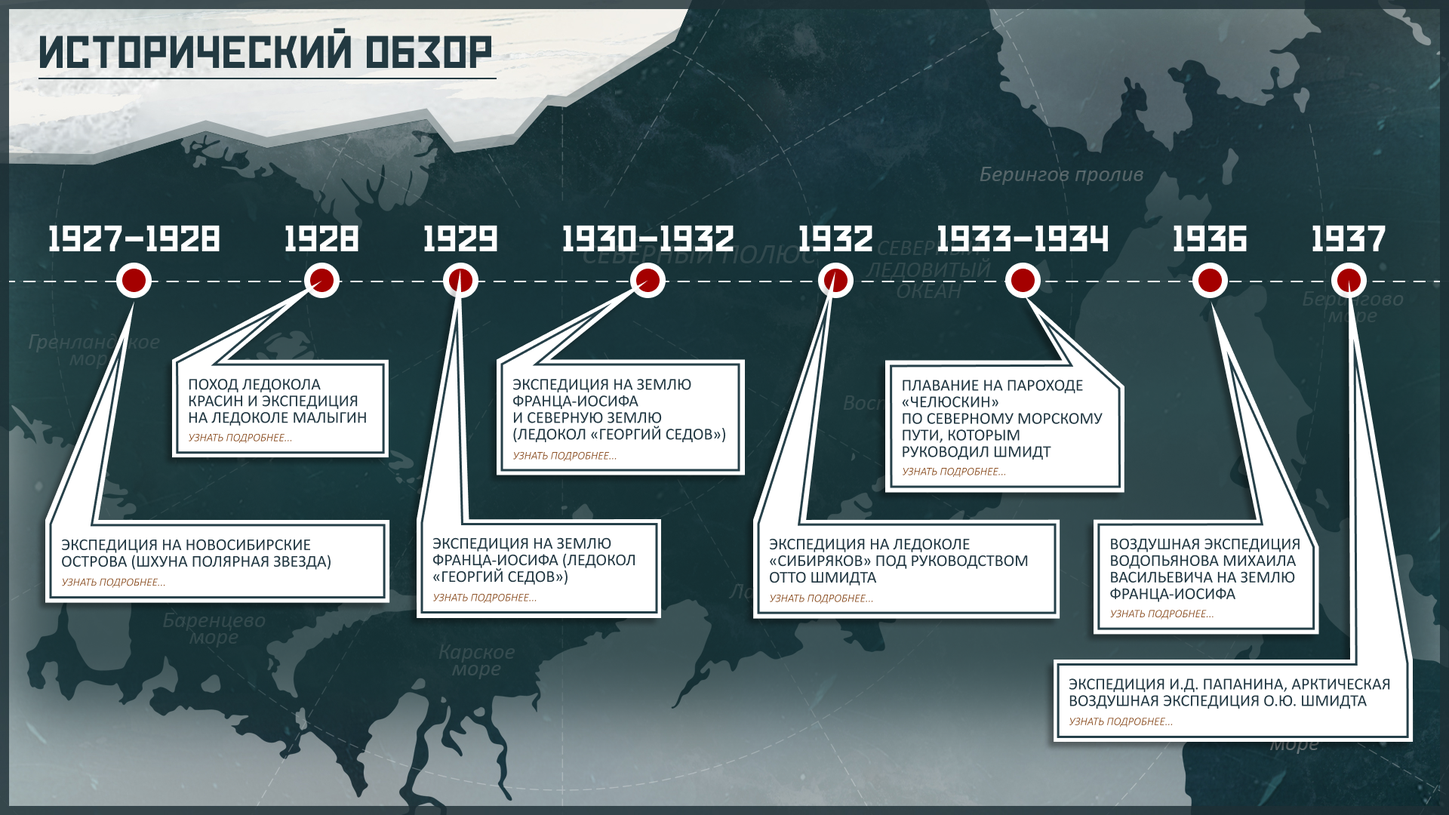
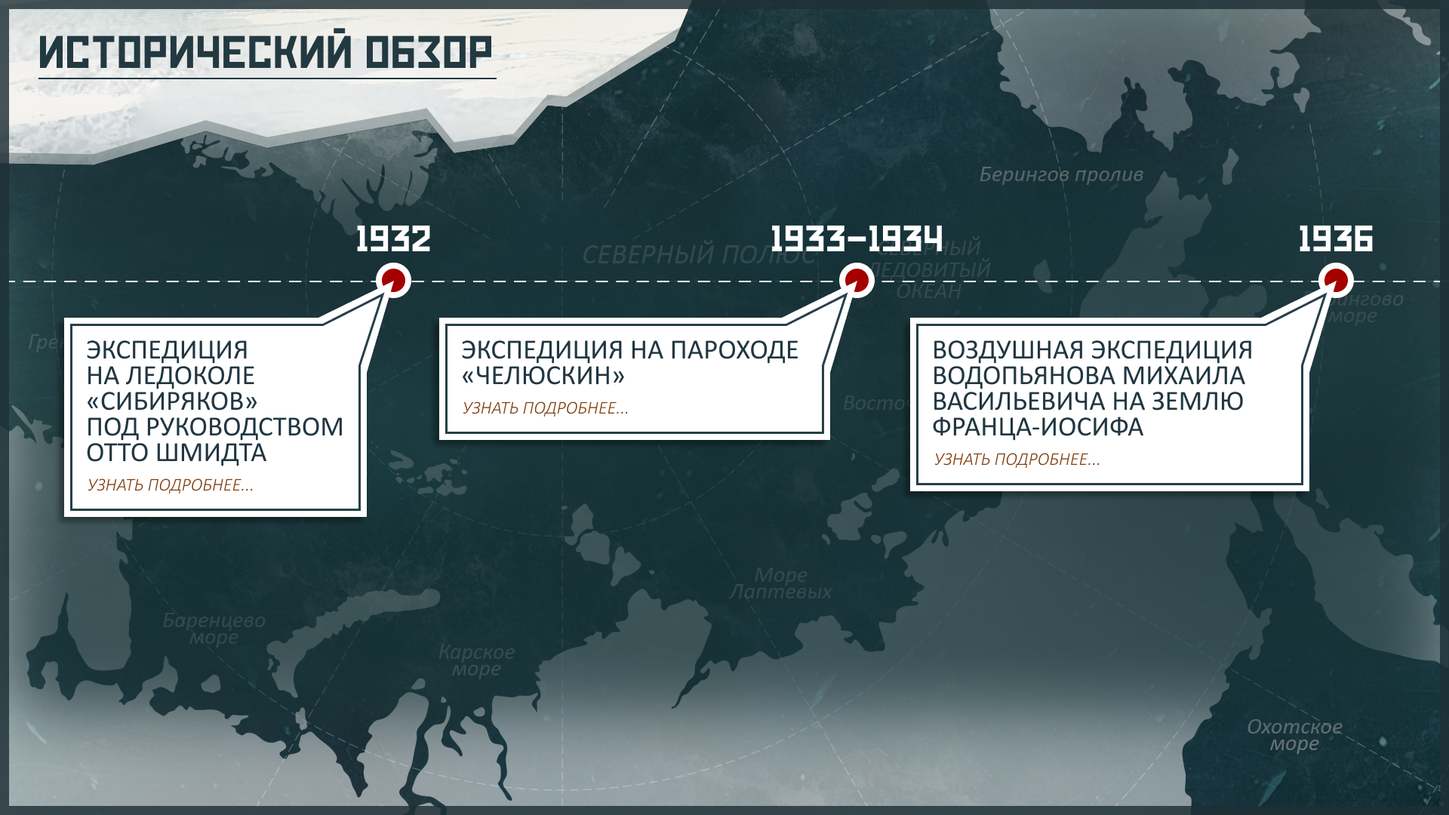
fix

Changed region(s): [[0.0312, 0.275, 1.0, 0.9167]]

diff --git a/src/data/ru.js b/src/data/ru.js
@@ -1,88 +1,88 @@
 export const ru = {
   operations: [
-    {
-      id: 'novosibirsk',
-      title: (
-        <>
-          экспедиция на новособирские <br />
-          острова (шхуна полярная звезда)
-        </>
-      ),
-      text: 'Зимой 1927–1928 годов учёные   совершили   ряд   санных   походов   на Новосибирские   острова   по   маршруту   Усть-Янск — Чай   Поварня — остров Котельный.   Производились   географические   исследования,   а   в   проливах Дмитрия Лаптева и Санникова удалось выполнить гидрологические разрезы. Шхуна «Полярная звезда» (капитан Ю. Д. Чирихин) должна была выполнять функции   судна   снабжения.   20 июля   1928 года   экипаж   отплыл   на   остров Большой Ляховский с баржей «Тюменка» на буксире.   Некоторые события экспедиции:  1 августа, находясь в Тикси, экипаж попал в сплошные ледяные поля.   До   23 августа   шхуна   маневрировала   в   ледовых   проходах,   крайне медленно продвигаясь к месту назначения.   Стоянка на  острове  Большой Ляховский продолжалась  с  26 августа по 1 сентября.    После выгрузки группы Пинегина шхуна поспешила уйти.  По поручению Академии наук РСФСР в   1928 году   Пинегин   руководил постройкой   геофизической   станции   на   мысе   Шалаурова   на   о. Большой Ляховской.   Участники   экспедиции   и   грузы   были   доставлены   на   остров «Полярной звездой».',
-      images: [{ src: '../images/shhuna-photo1.jpg', title: 'Николай Пинегин' }],
-      videos: [{ src: '/videos/novosibirsk-video1.mp4', title: 'Новосибирские острова-загадки' }],
-      audios: []
-    },
-    {
-      id: 'krasin',
-      title: (
-        <>
-          поход ледокола <br />
-          Красин и экспедиция <br />
-          на ледоколе Малыгин
-        </>
-      ),
-      text: ' В 1928 году ледоколы «Красин» и «Малыгин» участвовали в международной спасательной операции по спасению экспедиции Умберто Нобиле.   Экспедиция на дирижабле «Италия» стартовала из Милана 15 апреля 1928 года. 25   мая   дирижабль,   пролетев   над   полюсом,   потерпел   катастрофу   во   льдах Северного  Ледовитого  океана.  После  крушения  командир  и  ещё  восемь  членов экипажа остались живы.   Советский Союз предоставил для спасательной экспедиции два ледокола.  «Малыгин»  вышел  12  июня  из  Архангельска,  но  20  июня  был зажат  льдами в Баренцевом море и не смог помочь итальянцам. «Красин» вышел из Ленинграда 16 июня.  Некоторые события похода:  10 июля экипаж советского самолёта, доставленного «Красиным», во время разведки обнаружил лагерь и сбросил итальянцам еду и одежду.    11   июля   лётчик   Чухновский   нашёл   группу,   ушедшую   пешком.   Но   на обратном пути он не нашёл в тумане ледокол и сломал шасси.    12 июля «Красин» добрался до «красной палатки» и принял на борт пять последних членов экспедиции Нобиле.  16 июля «Красин» подобрал со льдины экипаж Бориса Чухновского, после чего корабль лёг на курс к берегам Норвегии.  Спасённые  итальянцы пересели  на  пароход  «Читта  ди  Милано»,   который доставил их в норвежский Нарвик, откуда они вернулись в Рим.   За этот героический поход ледокол «Красин» был   награждён   орденом «Трудового Красного Знамени».',
-      images: [
-        { src: '../images/krasin-photo1.jpg', title: 'Дирижабль Италия' },
-        { src: '../images/krasin-photo2.jpg', title: 'Дирижабль Италия' },
-        { src: '../images/krasin-photo3.jpg', title: 'Красинцы и спасенные ими члены экипажа Италии' },
-        { src: '../images/krasin-photo4.jpg', title: 'Красная палатка' },
-        { src: '../images/krasin-photo5.jpg', title: 'Ледокол Красин' },
-        { src: '../images/krasin-photo6.jpg', title: 'Ледокольный пароход Малыгин' },
-        { src: '../images/krasin-photo6.jpg', title: 'Моряки Красина подготавливают самолёт к погрузке на ледокол' },
-        { src: '../images/krasin-photo6.jpg', title: 'Постер к фильму Красная палатка' },
-        { src: '../images/krasin-photo6.jpg', title: 'Умберто Нобиле' }
-      ],
-      videos: [{ src: '/videos/krasin-video1.mp4', title: 'Видео Ледокол "Красин" Миссия спасать' }],
-      audios: []
-    },
-    {
-      id: 'frank',
-      title: (
-        <>
-          экспедиция на Землю
-          <br />
-          Франца-Иосифа (ледокол
-          <br />
-          «Георгий Седов»)
-        </>
-      ),
-      text: ' С 21 июня по 11 сентября 1929 года на ледоколе «Георгий Седов» проходила  экспедиция Института по изучению Севера под руководством О. Ю. Шмидта  (капитан В. И. Воронин).    Цель экспедиции — обследовать Землю Франца-Иосифа и организовать  полярную станцию в бухте Тихой на острове Гукера (Земля Франца-Иосифа).   Некоторые результаты экспедиции:  «Георгий Седов» установил рекорд свободного плавания в полярных льдах,  достигнув 82°14´ с. ш..    30 августа 1929 года обустройство станции было завершено, о чём  оповестили по радио.    Шмидт совершил церемонию поднятия советского флага, приняв новую  землю в состав СССР.  ',
-      images: [
-        { src: '../images/franc-photo1.jpg', title: 'Георгий Седов ледокольный пароход' },
-        { src: '../images/franc-photo2.jpg', title: 'Георгий Яковлевич Седов' },
-        { src: '../images/franc-photo3.jpg', title: 'Капитан ледокольного парохода Георгий Седов Владимир Иванович Воронин, на борту своего судна.' },
-        { src: '../images/franc-photo4.jpg', title: 'Ледокольный пароход Георгий Седов уходит в плавание.' },
-        { src: '../images/franc-photo5.jpg', title: 'Отто Юльевич ШМИДТ (1891-1956гг) - советский учёный, математик, географ, геофизик, астроном.' }
-      ],
-      videos: [
-        { src: '/videos/frank-video1.mp4', title: '77 лет назад начался героический дрейф ледокола «Георгий Седов»' },
-        { src: '/videos/frank-video2.mp4', title: 'Дрейф ледокола "Георгий Седов"' }
-      ],
-      audios: []
-    },
-    {
-      id: 'northern',
-      title: (
-        <>
-          экспедиция на Землю
-          <br />
-          Франца-Иосифа
-          <br />
-          и северную Землю
-          <br />
-          (ледокол «Георгий Седов»).
-        </>
-      ),
-      text: 'В 1930–1932 годах экспедиция на ледоколе «Георгий Седов» отправилась из Архангельска 15 июля 1930 года к Земле Франца-Иосифа и Северной Земле с целью доставки новой смены полярников, океанографических исследований и изучения неизученных районов. В конце июля судно достигло острова Гукера, где часть группы занялась строительством, а остальные исследовали близлежащие острова. В августе экспедиция открыла острова Визе, Исаченко, Воронина, Шмидта и архипелаг Седова, построила станцию на острове Домашний и дошла до 81° северной широты, после чего вернулась в Архангельск 14 сентября, преодолев 10 000 км и выполнив научную программу. Позднее на основе данных экспедиции была составлена полная карта Северной Земли.',
-      images: [
-        { src: '/images/northern-photo1.jpg', title: 'Архангельск Седов' },
-        { src: '/images/northern-photo2.jpg', title: 'press_r_FDCC19C2-8928-42C2-989B-8CB2CB456508' }
-      ],
-      videos: [],
-      audios: []
-    },
+    // {
+    //   id: 'novosibirsk',
+    //   title: (
+    //     <>
+    //       экспедиция на новособирские <br />
+    //       острова (шхуна полярная звезда)
+    //     </>
+    //   ),
+    //   text: 'Зимой 1927–1928 годов учёные   совершили   ряд   санных   походов   на Новосибирские   острова   по   маршруту   Усть-Янск — Чай   Поварня — остров Котельный.   Производились   географические   исследования,   а   в   проливах Дмитрия Лаптева и Санникова удалось выполнить гидрологические разрезы. Шхуна «Полярная звезда» (капитан Ю. Д. Чирихин) должна была выполнять функции   судна   снабжения.   20 июля   1928 года   экипаж   отплыл   на   остров Большой Ляховский с баржей «Тюменка» на буксире.   Некоторые события экспедиции:  1 августа, находясь в Тикси, экипаж попал в сплошные ледяные поля.   До   23 августа   шхуна   маневрировала   в   ледовых   проходах,   крайне медленно продвигаясь к месту назначения.   Стоянка на  острове  Большой Ляховский продолжалась  с  26 августа по 1 сентября.    После выгрузки группы Пинегина шхуна поспешила уйти.  По поручению Академии наук РСФСР в   1928 году   Пинегин   руководил постройкой   геофизической   станции   на   мысе   Шалаурова   на   о. Большой Ляховской.   Участники   экспедиции   и   грузы   были   доставлены   на   остров «Полярной звездой».',
+    //   images: [{ src: '../images/shhuna-photo1.jpg', title: 'Николай Пинегин' }],
+    //   videos: [{ src: '/videos/novosibirsk-video1.mp4', title: 'Новосибирские острова-загадки' }],
+    //   audios: []
+    // },
+    // {
+    //   id: 'krasin',
+    //   title: (
+    //     <>
+    //       поход ледокола <br />
+    //       Красин и экспедиция <br />
+    //       на ледоколе Малыгин
+    //     </>
+    //   ),
+    //   text: ' В 1928 году ледоколы «Красин» и «Малыгин» участвовали в международной спасательной операции по спасению экспедиции Умберто Нобиле.   Экспедиция на дирижабле «Италия» стартовала из Милана 15 апреля 1928 года. 25   мая   дирижабль,   пролетев   над   полюсом,   потерпел   катастрофу   во   льдах Северного  Ледовитого  океана.  После  крушения  командир  и  ещё  восемь  членов экипажа остались живы.   Советский Союз предоставил для спасательной экспедиции два ледокола.  «Малыгин»  вышел  12  июня  из  Архангельска,  но  20  июня  был зажат  льдами в Баренцевом море и не смог помочь итальянцам. «Красин» вышел из Ленинграда 16 июня.  Некоторые события похода:  10 июля экипаж советского самолёта, доставленного «Красиным», во время разведки обнаружил лагерь и сбросил итальянцам еду и одежду.    11   июля   лётчик   Чухновский   нашёл   группу,   ушедшую   пешком.   Но   на обратном пути он не нашёл в тумане ледокол и сломал шасси.    12 июля «Красин» добрался до «красной палатки» и принял на борт пять последних членов экспедиции Нобиле.  16 июля «Красин» подобрал со льдины экипаж Бориса Чухновского, после чего корабль лёг на курс к берегам Норвегии.  Спасённые  итальянцы пересели  на  пароход  «Читта  ди  Милано»,   который доставил их в норвежский Нарвик, откуда они вернулись в Рим.   За этот героический поход ледокол «Красин» был   награждён   орденом «Трудового Красного Знамени».',
+    //   images: [
+    //     { src: '../images/krasin-photo1.jpg', title: 'Дирижабль Италия' },
+    //     { src: '../images/krasin-photo2.jpg', title: 'Дирижабль Италия' },
+    //     { src: '../images/krasin-photo3.jpg', title: 'Красинцы и спасенные ими члены экипажа Италии' },
+    //     { src: '../images/krasin-photo4.jpg', title: 'Красная палатка' },
+    //     { src: '../images/krasin-photo5.jpg', title: 'Ледокол Красин' },
+    //     { src: '../images/krasin-photo6.jpg', title: 'Ледокольный пароход Малыгин' },
+    //     { src: '../images/krasin-photo6.jpg', title: 'Моряки Красина подготавливают самолёт к погрузке на ледокол' },
+    //     { src: '../images/krasin-photo6.jpg', title: 'Постер к фильму Красная палатка' },
+    //     { src: '../images/krasin-photo6.jpg', title: 'Умберто Нобиле' }
+    //   ],
+    //   videos: [{ src: '/videos/krasin-video1.mp4', title: 'Видео Ледокол "Красин" Миссия спасать' }],
+    //   audios: []
+    // },
+    // {
+    //   id: 'frank',
+    //   title: (
+    //     <>
+    //       экспедиция на Землю
+    //       <br />
+    //       Франца-Иосифа (ледокол
+    //       <br />
+    //       «Георгий Седов»)
+    //     </>
+    //   ),
+    //   text: ' С 21 июня по 11 сентября 1929 года на ледоколе «Георгий Седов» проходила  экспедиция Института по изучению Севера под руководством О. Ю. Шмидта  (капитан В. И. Воронин).    Цель экспедиции — обследовать Землю Франца-Иосифа и организовать  полярную станцию в бухте Тихой на острове Гукера (Земля Франца-Иосифа).   Некоторые результаты экспедиции:  «Георгий Седов» установил рекорд свободного плавания в полярных льдах,  достигнув 82°14´ с. ш..    30 августа 1929 года обустройство станции было завершено, о чём  оповестили по радио.    Шмидт совершил церемонию поднятия советского флага, приняв новую  землю в состав СССР.  ',
+    //   images: [
+    //     { src: '../images/franc-photo1.jpg', title: 'Георгий Седов ледокольный пароход' },
+    //     { src: '../images/franc-photo2.jpg', title: 'Георгий Яковлевич Седов' },
+    //     { src: '../images/franc-photo3.jpg', title: 'Капитан ледокольного парохода Георгий Седов Владимир Иванович Воронин, на борту своего судна.' },
+    //     { src: '../images/franc-photo4.jpg', title: 'Ледокольный пароход Георгий Седов уходит в плавание.' },
+    //     { src: '../images/franc-photo5.jpg', title: 'Отто Юльевич ШМИДТ (1891-1956гг) - советский учёный, математик, географ, геофизик, астроном.' }
+    //   ],
+    //   videos: [
+    //     { src: '/videos/frank-video1.mp4', title: '77 лет назад начался героический дрейф ледокола «Георгий Седов»' },
+    //     { src: '/videos/frank-video2.mp4', title: 'Дрейф ледокола "Георгий Седов"' }
+    //   ],
+    //   audios: []
+    // },
+    // {
+    //   id: 'northern',
+    //   title: (
+    //     <>
+    //       экспедиция на Землю
+    //       <br />
+    //       Франца-Иосифа
+    //       <br />
+    //       и северную Землю
+    //       <br />
+    //       (ледокол «Георгий Седов»).
+    //     </>
+    //   ),
+    //   text: 'В 1930–1932 годах экспедиция на ледоколе «Георгий Седов» отправилась из Архангельска 15 июля 1930 года к Земле Франца-Иосифа и Северной Земле с целью доставки новой смены полярников, океанографических исследований и изучения неизученных районов. В конце июля судно достигло острова Гукера, где часть группы занялась строительством, а остальные исследовали близлежащие острова. В августе экспедиция открыла острова Визе, Исаченко, Воронина, Шмидта и архипелаг Седова, построила станцию на острове Домашний и дошла до 81° северной широты, после чего вернулась в Архангельск 14 сентября, преодолев 10 000 км и выполнив научную программу. Позднее на основе данных экспедиции была составлена полная карта Северной Земли.',
+    //   images: [
+    //     { src: '/images/northern-photo1.jpg', title: 'Архангельск Седов' },
+    //     { src: '/images/northern-photo2.jpg', title: 'press_r_FDCC19C2-8928-42C2-989B-8CB2CB456508' }
+    //   ],
+    //   videos: [],
+    //   audios: []
+    // },
     {
       id: 'otto',
       title: (
@@ -113,11 +113,8 @@ export const ru = {
       id: 'cheluskin',
       title: (
         <>
-          плавание на пароходе <br />
-          «Челюскин»
-          <br /> по Северному морскому <br />
-          пути, которым <br />
-          руководил Шмидт
+          Экспедиция на пароходе <br />
+         «Челюскин» 
         </>
       ),
       text: 'Командовал экспедицией Отто Шмидт, капитаном судна стал Владимир Воронин. В августе 1933-го судно вышло из Мурманска и взяло курс на Владивосток. Цель экспедиции — доставка продовольствия, угля и строительных материалов на остров Врангеля. Ожидалось, что пароход достигнет места назначения за месяц. Кроме того, планировалась отработка маршрута по Северному морскому пути: челюскинцы должны были доказать его пригодность для доставки грузов на Дальний Восток неледокольными судами. Начальник экспедиции Отто Шмидт не сомневался в успехе, технике и подчиненных. К этому времени условия плавания в арктических водах стали комфортнее: на побережье по маршруту базировались самолеты разведки, действовала разветвленная сеть радиостанций. Предполагалось, что на сложных участках "Челюскину" помогут полноценные ледоколы. Первого сентября пароход подошел к мысу Челюскина. Команде уже довелось побороться со льдами в Карском море. Пароход получил несколько внушительных вмятин. Но в Восточно-Сибирском море челюскинцев ожидали куда более серьезные испытания. Сильные снегопады и туман не позволяли проводить ледовую разведку с воздуха. Для ледовой разведки на борту парохода находился гидросамолет конструкции Шаврина «Ш-2», пилотом которого был полярный лётчик М. С. Бабушкин "Челюскин" практически на ощупь пробивался через многолетние льды. В двадцатых числах сентября "Челюскин" и пароход вместе с толщей льда дрейфовал более пяти месяцев, пока 13 февраля 1934-го льды не раздавили корпус. Шмидт предвидел катастрофу. Заметив, что на судно надвигается ледяной вал, он распорядился выгрузить аварийный запас продовольствия и горючего. На льду оказались 104 человека, в том числе десять женщин и двое детей — члены семей полярников, направлявшихся на остров Врангеля. На льдине построили барак из бревен и досок, всплывших после потопления "Челюскина", оборудовали палаточный лагерь. Оставшихся продуктов хватало на два с половиной месяца. Недалеко от лагеря челюскинцы расчистили небольшую площадку для приема самолетов. Для спасения челюскинцев была организована масштабная операция. Советская авиация впервые в истории провела успешную эвакуацию людей с арктического льда. Это был первый в истории спасательный рейс подобного масштаба в арктических условиях.  Несмотря на потерю судна, экспедиция на «Челюскине» стала важным событием в освоении Севморпути. Она показала, что проход возможен, пусть и с рисками. ',
@@ -162,23 +159,23 @@ export const ru = {
       videos: [{ src: '', title: '' }],
       audios: []
     },
-    {
-      id: 'papanin',
-      title: (
-        <>
-          экспедиция И Д Папанина, арктическая <br />
-          воздушная экспедиция О Ю Шмидта
-        </>
-      ),
-      text: '21 мая 1937 года стартовала первая советская дрейфующая станция «Северный полюс-1» под руководством И.Д. Папанина, куда самолёт АНТ-6 доставил четверых полярников (Папанин, Фёдоров, Кренкель, Ширшов) и оборудование. В течение 274 дней экспедиция проводила метеорологические, геофизические и гидробиологические исследования, дрейфуя на льдине более 2000 км, пока 19 февраля 1938 года их не эвакуировали ледоколы «Таймыр» и «Мурман» у берегов Гренландии. Научные результаты получили высокую оценку АН СССР, все участники стали докторами географических наук и Героями Советского Союза.',
-      images: [
-        { src: '../images/papanin-photo1.jpg', title: '_C836_1' },
-        { src: '../images/papanin-photo2.jpg', title: 'Радист дрейфующей станции СП-1 Эрнст Кренкель в палатке во время сеанса радиосвязи' },
-        { src: '../images/papanin-photo3.jpg', title: 'Шмидт и Папанин на льдине, 1937 год' }
-      ],
-      videos: [{ src: '/videos/papanin-video1.mp4', title: 'Папанин и его команда на дрейфующей станции "Северный полюс-1"(кинохроника, 1937г)' }],
-      audios: []
-    }
+    // {
+    //   id: 'papanin',
+    //   title: (
+    //     <>
+    //       экспедиция И Д Папанина, арктическая <br />
+    //       воздушная экспедиция О Ю Шмидта
+    //     </>
+    //   ),
+    //   text: '21 мая 1937 года стартовала первая советская дрейфующая станция «Северный полюс-1» под руководством И.Д. Папанина, куда самолёт АНТ-6 доставил четверых полярников (Папанин, Фёдоров, Кренкель, Ширшов) и оборудование. В течение 274 дней экспедиция проводила метеорологические, геофизические и гидробиологические исследования, дрейфуя на льдине более 2000 км, пока 19 февраля 1938 года их не эвакуировали ледоколы «Таймыр» и «Мурман» у берегов Гренландии. Научные результаты получили высокую оценку АН СССР, все участники стали докторами географических наук и Героями Советского Союза.',
+    //   images: [
+    //     { src: '../images/papanin-photo1.jpg', title: '_C836_1' },
+    //     { src: '../images/papanin-photo2.jpg', title: 'Радист дрейфующей станции СП-1 Эрнст Кренкель в палатке во время сеанса радиосвязи' },
+    //     { src: '../images/papanin-photo3.jpg', title: 'Шмидт и Папанин на льдине, 1937 год' }
+    //   ],
+    //   videos: [{ src: '/videos/papanin-video1.mp4', title: 'Папанин и его команда на дрейфующей станции "Северный полюс-1"(кинохроника, 1937г)' }],
+    //   audios: []
+    // }
   ],
   personali: {
     pilots: [

diff --git a/src/data/data.js b/src/data/data.js
@@ -107,68 +107,30 @@ export const translations = {
 };
 
 export const operationStyles = {
-  novosibirsk: {
-    position: 'absolute',
-    bottom: '24%',
-    left: '3%',
-    width: '450px',
-    height: '110px',
-    cursor: 'pointer'
-  },
-  krasin: {
-    position: 'absolute',
-    top: '44%',
-    left: '12%',
-    width: '280px',
-    height: '130px',
-    cursor: 'pointer'
-  },
-  frank: {
-    position: 'absolute',
-    bottom: '22%',
-    left: '29%',
-    width: '320px',
-    height: '130px',
-    cursor: 'pointer'
-  },
-  northern: {
-    position: 'absolute',
-    top: '43%',
-    left: '34%',
-    width: '330px',
-    height: '160px',
-    cursor: 'pointer'
-  },
   otto: {
     position: 'absolute',
-    bottom: '22%',
-    right: '27%',
-    width: '390px',
-    height: '125px',
-    cursor: 'pointer'
+    top: '38%',
+    left: '4%',
+    width: '400px',
+    height: '260px',
+    cursor: 'pointer',
   },
+
   cheluskin: {
     position: 'absolute',
-    top: '44%',
-    right: '22%',
-    width: '320px',
+    top: '38%',
+    left: '30%',
+    width: '520px',
     height: '170px',
-    cursor: 'pointer'
+    cursor: 'pointer',
   },
+
   vodopyanov: {
     position: 'absolute',
-    bottom: '19%',
-    right: '9%',
-    width: '300px',
-    height: '150px',
-    cursor: 'pointer'
+    top: '38%',
+    right: '10%',
+    width: '510px',
+    height: '240px',
+    cursor: 'pointer',
   },
-  papanin: {
-    position: 'absolute',
-    bottom: '5%',
-    right: '2%',
-    width: '475px',
-    height: '110px',
-    cursor: 'pointer'
-  }
 };
